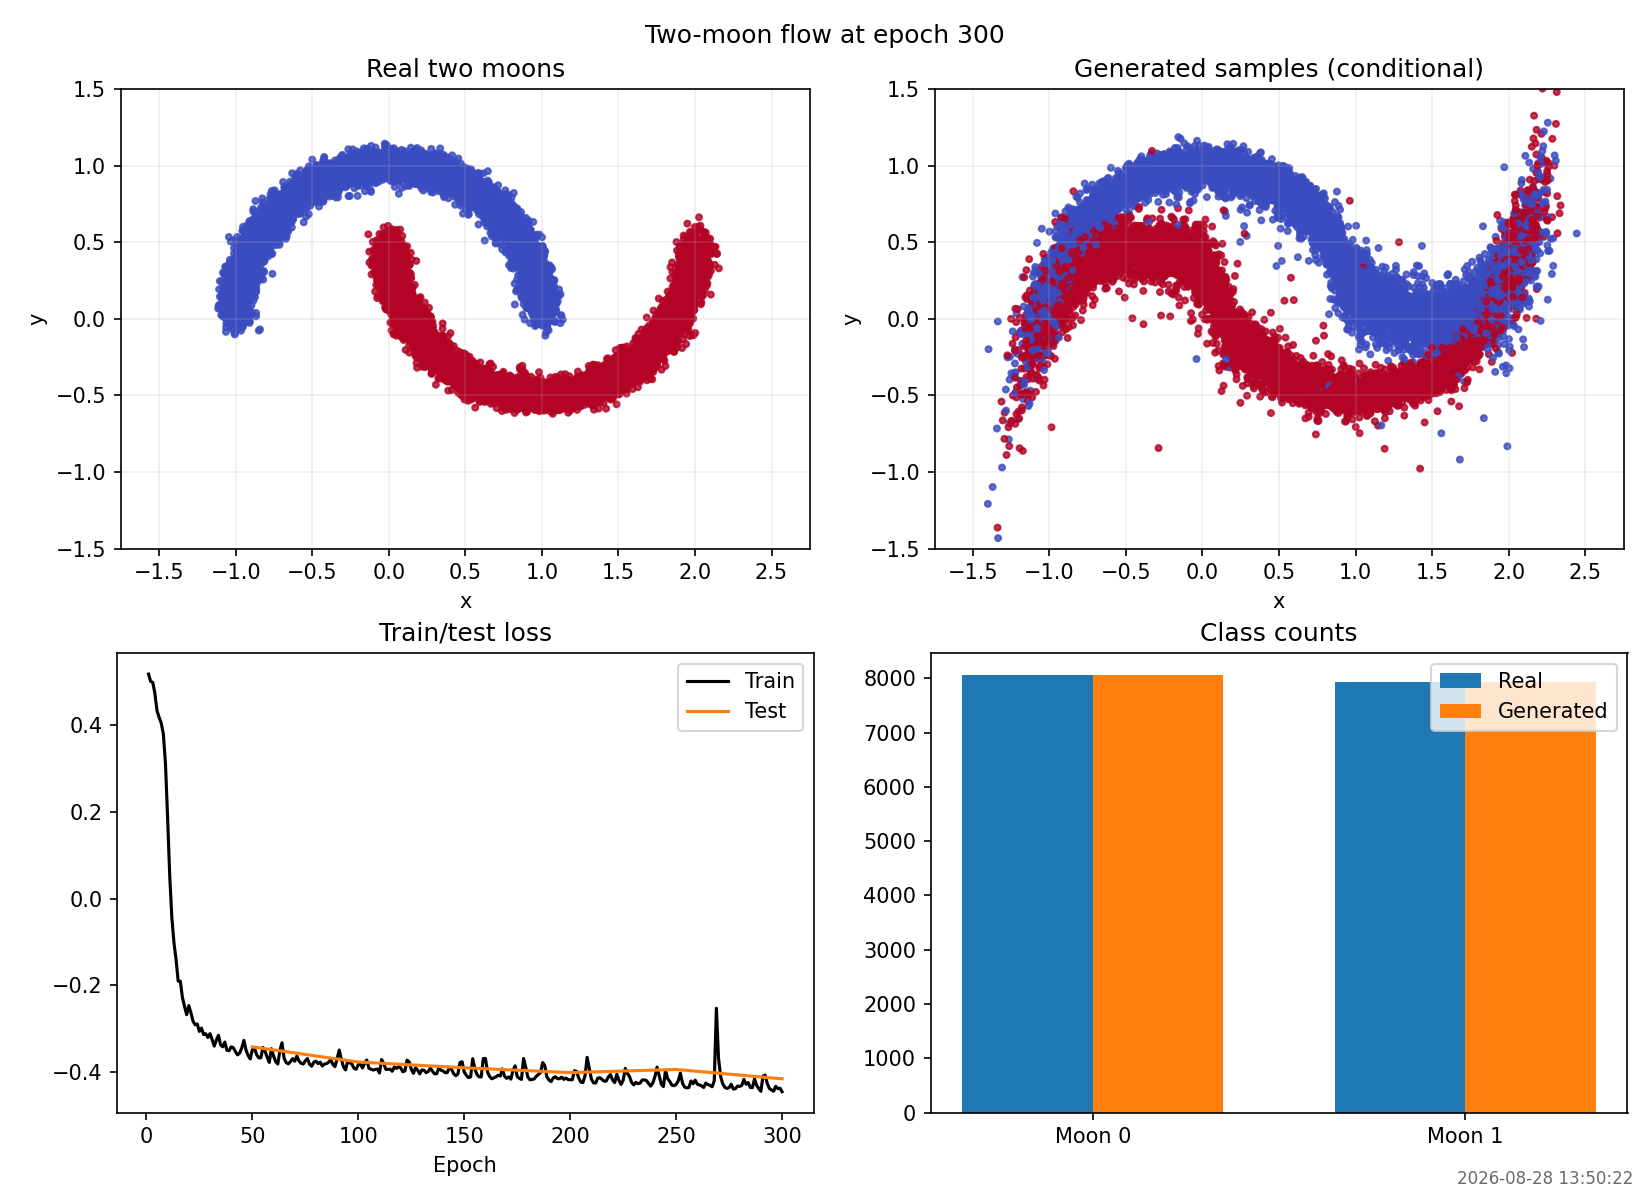
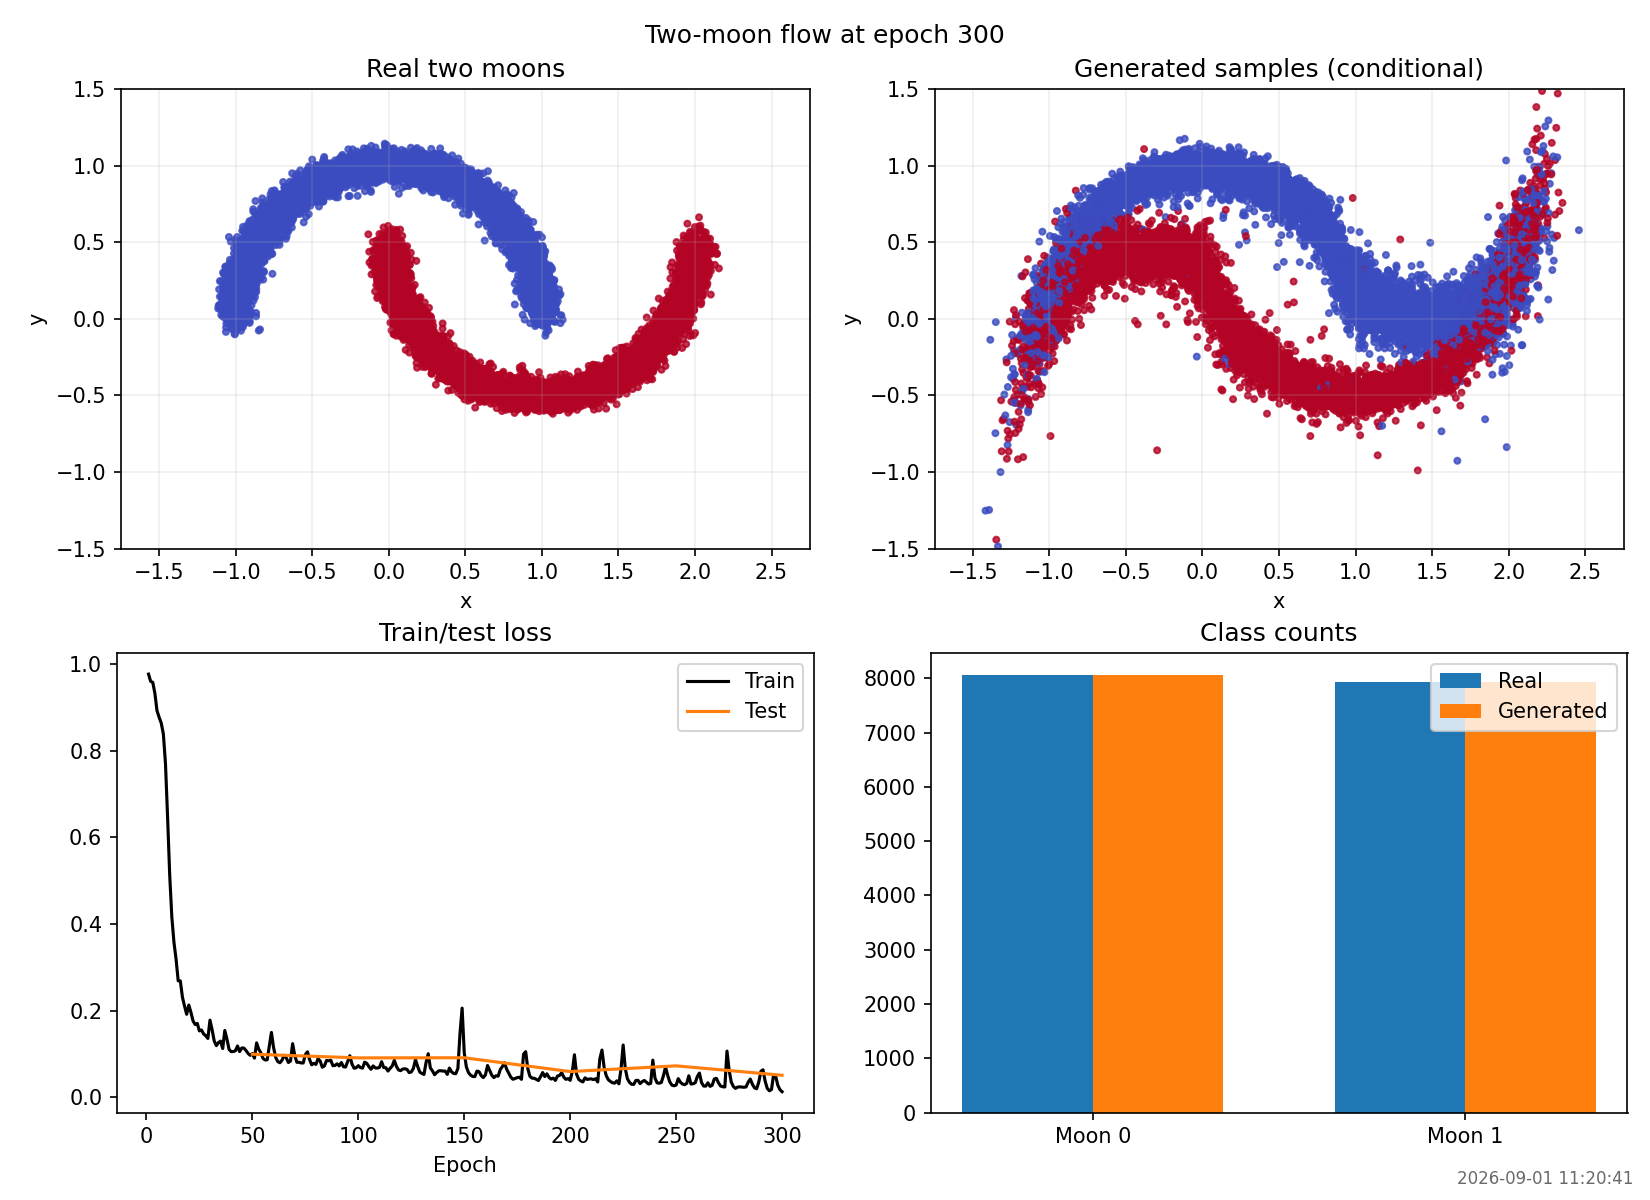
Update flow models and training outputs

diff --git a/train.py b/train.py
@@ -61,8 +61,9 @@ def save_plot(
 	test_epochs: list[int],
 	epoch: int,
 	plot_dir: Path,
+	show_loss_plot: bool = True,
 ) -> None:
-	"""Save real/generated point clouds and the loss curve for one checkpoint."""
+	"""Save real/generated point clouds and optionally the loss curve."""
 	plot_dir.mkdir(parents=True, exist_ok=True)
 
 	real_points = X.detach().cpu().reshape(-1, 2)
@@ -95,11 +96,14 @@ def save_plot(
 			alpha=0.8,
 		)
 		axes[1].set_title("Generated samples (conditional)")
-	axes[2].plot(range(1, len(losses) + 1), losses, color="black", label="Train")
-	axes[2].plot(test_epochs, test_losses, color="tab:orange", label="Test")
-	axes[2].set_title("Train/test loss")
-	axes[2].set_xlabel("Epoch")
-	axes[2].legend()
+	if show_loss_plot:
+		axes[2].plot(range(1, len(losses) + 1), losses, color="black", label="Train")
+		axes[2].plot(test_epochs, test_losses, color="tab:orange", label="Test")
+		axes[2].set_title("Train/test loss")
+		axes[2].set_xlabel("Epoch")
+		axes[2].legend()
+	else:
+		axes[2].axis("off")
 	if generated_labels is None:
 		axes[3].axis("off")
 		axes[3].text(0.5, 0.5, "No class labels\n(unconditional model)", ha="center", va="center")
@@ -147,7 +151,6 @@ def train_two_moons(config: TrainingConfig) -> tuple[Model, list[float]]:
 	noise = config.noise
 	seed = config.seed
 	plot_dir = config.plot_dir
-	updates_per_epoch = config.updates_per_epoch
 	plot_batches = config.plot_batches
 	test_batches = config.test_batches
 	device = config.device
@@ -156,8 +159,8 @@ def train_two_moons(config: TrainingConfig) -> tuple[Model, list[float]]:
 		raise ValueError("batch_size, points_per_batch, and epochs must be at least 1")
 	if plot_frequency < 1:
 		raise ValueError("plot_frequency must be at least 1")
-	if updates_per_epoch < 1 or plot_batches < 1 or test_batches < 1:
-		raise ValueError("updates_per_epoch, plot_batches, and test_batches must be at least 1")
+	if plot_batches < 1 or test_batches < 1:
+		raise ValueError("plot_batches and test_batches must be at least 1")
 
 	# Prefer the GPU automatically, while allowing explicit CPU/GPU selection.
 	selected_device = torch.device(device or ("cuda" if torch.cuda.is_available() else "cpu"))
@@ -250,6 +253,7 @@ def train_two_moons(config: TrainingConfig) -> tuple[Model, list[float]]:
 					test_epochs,
 					epoch,
 					plot_path,
+					show_loss_plot=config.show_loss_plot,
 				)
 			if validation_loss < best_validation_loss:
 				best_validation_loss = validation_loss
@@ -261,6 +265,8 @@ def train_two_moons(config: TrainingConfig) -> tuple[Model, list[float]]:
 					print(f"Early stopping at epoch {epoch:03d}: validation loss stopped improving")
 					break
 			print(f"Epoch {epoch:03d}/{epochs}: loss={losses[-1]:.4f} ({selected_device})")
+			if config.checkpoint_callback is not None:
+				config.checkpoint_callback(epoch, losses[-1], validation_loss, test_losses[-1])
 
 	model.load_state_dict(best_state)
 	return model, losses

diff --git a/real_nvp.py b/real_nvp.py
@@ -1,6 +1,8 @@
 from dataclasses import dataclass
 from pathlib import Path
 from copy import deepcopy
+from math import log, pi
+from typing import Callable
 
 import torch
 from torch import nn
@@ -30,6 +32,8 @@ class RealNVPConfig:
 	num_layers: int = 8
 	hidden_features: int = 128
 	learning_rate: float = 1e-3
+	checkpoint_callback: Callable[[int, float, float, float], None] | None = None
+	show_loss_plot: bool = True
 
 
 class CouplingNetwork(nn.Module):
@@ -71,7 +75,7 @@ class AffineCoupling(nn.Module):
 		identity = x * self.mask
 		log_scale, translation = self.transform(self._network_input(identity, labels)).chunk(2, dim=-1)
 		log_scale = 2.0 * torch.tanh(log_scale / 2.0) * (1.0 - self.mask)
-		translation = translation * (1.0 - self.mask)
+		translation = translation * (1.0 - self.mask) 
 		return identity + (1.0 - self.mask) * (x * log_scale.exp() + translation), log_scale.sum(dim=-1)
 
 	def inverse(self, z: torch.Tensor, labels: torch.Tensor | None = None) -> tuple[torch.Tensor, torch.Tensor]:
@@ -114,7 +118,9 @@ class RealNVP(nn.Module):
 		return z
 
 	def get_loss(self, z: torch.Tensor, logdet: torch.Tensor) -> torch.Tensor:
-		return 0.5 * z.pow(2).mean() - logdet.mean()
+		"""Return mean negative log-likelihood per coordinate."""
+		base_nll = 0.5 * z.pow(2).sum(dim=-1) + 0.5 * log(2.0 * pi)
+		return (base_nll - logdet).mean() / z.size(-1)
 
 
 def train_two_moons(config: RealNVPConfig) -> tuple[RealNVP, list[float]]:
@@ -203,6 +209,7 @@ def train_two_moons(config: RealNVPConfig) -> tuple[RealNVP, list[float]]:
 					test_epochs,
 					epoch,
 					Path(config.plot_dir),
+					show_loss_plot=config.show_loss_plot,
 				)
 			if validation_loss < best_validation_loss:
 				best_validation_loss = validation_loss
@@ -214,6 +221,8 @@ def train_two_moons(config: RealNVPConfig) -> tuple[RealNVP, list[float]]:
 					print(f"Early stopping at epoch {epoch:03d}: validation loss stopped improving")
 					break
 			print(f"Epoch {epoch:03d}/{config.epochs}: loss={losses[-1]:.4f} ({device})")
+			if config.checkpoint_callback is not None:
+				config.checkpoint_callback(epoch, losses[-1], validation_loss, test_losses[-1])
 
 	model.load_state_dict(best_state)
 	return model, losses

diff --git a/configuration.py b/configuration.py
@@ -1,29 +1,31 @@
 from dataclasses import dataclass, replace
 from pathlib import Path
+from typing import Callable
 
 
 @dataclass(frozen=True)
 class TrainingConfig:
-	batch_size: int = 32
-	points_per_batch: int = 500
-	epochs: int = 600
-	plot_frequency: int = 50
-	noise: float = 0.05
-	seed: int = 7
-	plot_dir: str | Path = "plots"
-	updates_per_epoch: int = 16
-	dataset_num_batches: int = 512
-	dataset_path: str | Path = Path(__file__).parent / "two_moons_splits.pt"
-	plot_batches: int = 32
+	batch_size: int = 32 
+	points_per_batch: int = 500 
+	epochs: int = 600 # 600 times complete data is getting trained So, all 32 batches * 500 Points.  
+	plot_frequency: int = 50 # this is how often I want to print something
+	noise: float = 0.05 
+	seed: int = 7 # Why the seed is just 7? What does it even mean by that? 
+	plot_dir: str | Path = "plots" 
+	dataset_num_batches: int = 512 # How is this one differnet then batchsizes? 
+	dataset_path: str | Path = Path(__file__).parent / "two_moons_splits.pt" 
+	plot_batches: int = 32 
 	test_batches: int = 32
 	early_stopping_patience: int = 3
-	weight_decay: float = 1e-4
-	device: str | None = None
-	conditional: bool = True
-	in_channels: int = 2
+	weight_decay: float = 1e-4 
+	device: str | None = None 
+	conditional: bool = True 
+	in_channels: int = 2 
 	channels: int = 64
-	num_blocks: int = 4
-	learning_rate: float = 5e-4
+	num_blocks: int = 4 
+	learning_rate: float = 5e-4 
+	checkpoint_callback: Callable[[int, float, float, float], None] | None = None
+	show_loss_plot: bool = True
 
 
 CONDITIONAL_CONFIG = TrainingConfig()

diff --git a/Transformer_flow.py b/Transformer_flow.py
@@ -182,7 +182,9 @@ class MetaBlock(torch.nn.Module):
             xa = torch.zeros_like(x)
 
         scale = (-xa.float()).exp().type(xa.dtype)
-        return self.permutation((x_in - xb) * scale, inverse=True), -xa.mean(dim=[1, 2])
+        # Return the total log-determinant for each sequence. The training
+        # loss performs the common per-coordinate normalization.
+        return self.permutation((x_in - xb) * scale, inverse=True), -xa.sum(dim=[1, 2])
 
     def reverse_step(
         self,
@@ -308,7 +310,7 @@ class Model(torch.nn.Module):
     ) -> tuple[torch.Tensor, list[torch.Tensor], torch.Tensor]:
         x = self.patchify(x)
         outputs = []
-        logdets = torch.zeros((), device=x.device)
+        logdets = torch.zeros(x.size(0), device=x.device, dtype=x.dtype)
         for block in self.blocks:
             x, logdet = block(x, y)
             logdets = logdets + logdet
@@ -320,7 +322,12 @@ class Model(torch.nn.Module):
         self.var.lerp_(z2.detach(), weight=self.VAR_LR)
 
     def get_loss(self, z: torch.Tensor, logdets: torch.Tensor):
-        return 0.5 * z.pow(2).mean() - logdets.mean()
+        """Return mean negative log-likelihood per coordinate."""
+        base_nll = 0.5 * z.pow(2).sum(dim=-1) + 0.5 * torch.log(
+            torch.tensor(2.0 * torch.pi, device=z.device, dtype=z.dtype)
+        )
+        sequence_nll = base_nll.sum(dim=-1) - logdets
+        return sequence_nll.mean() / (z.size(1) * z.size(2))
 
     def reverse(
         self,

diff --git a/dataset.py b/dataset.py
@@ -1,4 +1,4 @@
-from dataclasses import dataclass
+from dataclasses import dataclass 
 from pathlib import Path
 
 import torch

diff --git a/README.md b/README.md
@@ -27,4 +27,4 @@ python real_nvp/train_conditional.py
 python real_nvp/train_unconditional.py
 ```
 
-Generated plots are intentionally ignored by Git.
+Generated plots are intentionally ignored by Git. 
